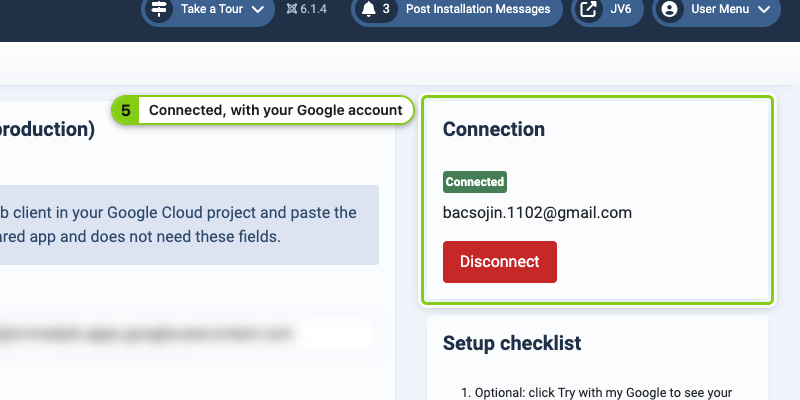
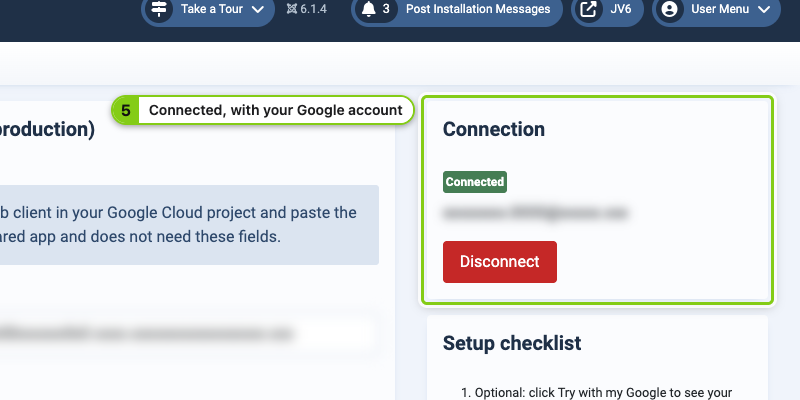
admin-guide-screenshots 1.2.0: hide personal data; refresh SiteKit demo
- shoot.py: email addresses are masked (x/0) and blurred on every shot;
  "redact" regexes (global or per shot) do the same for names, client IDs,
  account/property IDs; field values and selected options included
- SKILL.md: personal data always hidden (intake, shot rules, image check,
  no real data in guide text); stopping Chart.js animations before capture
- SiteKit demo retaken in the 1.1.0 style (lime boxes, notes, cropped) with
  the Google account email, client ID and GA4 property ID hidden

Changed region(s): [[0.5312, 0.51, 0.8125, 0.57]]

diff --git a/plugins/admin-guide-screenshots/skills/admin-guide-screenshots/scripts/shoot.py b/plugins/admin-guide-screenshots/skills/admin-guide-screenshots/scripts/shoot.py
@@ -12,9 +12,12 @@ SHOTS.json (see ../shots.example.json):
     crop        true (default): crop each image to its boxes plus padding; false: whole page;
                 or {"padding": 60, "min_width": 800, "min_height": 400}; also per shot
     hide        selectors hidden on every shot (debug bars, cookie banners)
-    blur        selectors blurred on every shot (emails, secrets)
+    blur        selectors blurred on every shot (fields holding secrets or IDs)
+    redact      regexes; matching text anywhere on the page (text, field values, selected
+                options) is masked (x/0) and blurred. Email addresses are always blurred unless
+                "redact_emails": false. Also per shot.
     shots       list of {name, url, actions?, highlights, hide?, blur?, full_page?, color?,
-                crop?, crop_include?}; a highlight is {selector, label?, note?, color?,
+                crop?, crop_include?, redact?}; a highlight is {selector, label?, note?, color?,
                 badge?, padding?}
 
 Credentials come from ADMIN_GUIDE_USER / ADMIN_GUIDE_PASS, read from the
@@ -157,6 +160,83 @@ CROP_JS = """
 """
 
 
+EMAIL_RE = r"[A-Za-z0-9._%+-]+@[A-Za-z0-9-]+(?:\.[A-Za-z0-9-]+)*\.[A-Za-z]{2,}"
+
+# Hides every match of the patterns: the characters are replaced first (letters -> x,
+# digits -> 0) so the image never holds the real value, then blurred. A form field or select
+# showing a match is masked and blurred whole. Returns how many places were hidden.
+REDACT_JS = """
+(patterns) => {
+	const res = patterns.map((p) => new RegExp(p, 'gi'));
+	const hit = (s) => res.some((r) => { r.lastIndex = 0; return r.test(s); });
+	const blur = 'blur(5px)';
+	const mask = (s) => s.replace(/[A-Za-z]/g, 'x').replace(/[0-9]/g, '0');
+	let count = 0;
+	const docs = [document];
+	for (const f of document.querySelectorAll('iframe')) {
+		try { if (f.contentDocument && f.contentDocument.body) docs.push(f.contentDocument); } catch (e) {}
+	}
+	for (const doc of docs) {
+		for (const el of doc.querySelectorAll('input, textarea, select')) {
+			if (el.dataset.agsRedact) continue;
+			const opt = el.tagName === 'SELECT' ? el.selectedOptions[0] : null;
+			const v = opt ? opt.text : (el.tagName === 'SELECT' || el.type === 'password' ? '' : el.value);
+			if (!v || !hit(v)) continue;
+			if (opt) opt.text = mask(v); else el.value = mask(v);
+			el.style.filter = blur;
+			el.dataset.agsRedact = '1';
+			count++;
+		}
+		const walker = doc.createTreeWalker(doc.body, NodeFilter.SHOW_TEXT, {acceptNode: (n) => {
+			const p = n.parentElement;
+			return p && !p.dataset.agsRedact && !/^(SCRIPT|STYLE|NOSCRIPT|OPTION|TEXTAREA)$/.test(p.tagName) && hit(n.nodeValue)
+				? NodeFilter.FILTER_ACCEPT : NodeFilter.FILTER_REJECT;
+		}});
+		const nodes = [];
+		while (walker.nextNode()) nodes.push(walker.currentNode);
+		for (const node of nodes) {
+			const text = node.nodeValue;
+			const ranges = [];
+			for (const r of res) {
+				r.lastIndex = 0;
+				let m;
+				while ((m = r.exec(text))) {
+					if (!m[0]) { r.lastIndex++; continue; }
+					ranges.push([m.index, m.index + m[0].length]);
+				}
+			}
+			ranges.sort((a, b) => a[0] - b[0]);
+			const merged = [];
+			for (const r of ranges) {
+				const last = merged[merged.length - 1];
+				if (last && r[0] <= last[1]) last[1] = Math.max(last[1], r[1]); else merged.push(r);
+			}
+			const frag = doc.createDocumentFragment();
+			let pos = 0;
+			for (const [a, b] of merged) {
+				frag.append(text.slice(pos, a));
+				const span = doc.createElement('span');
+				span.textContent = mask(text.slice(a, b));
+				span.dataset.agsRedact = '1';
+				Object.assign(span.style, {filter: blur, display: 'inline-block'});
+				frag.append(span);
+				pos = b;
+				count++;
+			}
+			frag.append(text.slice(pos));
+			node.replaceWith(frag);
+		}
+	}
+	return count;
+}
+"""
+
+
+def redact_patterns(spec: dict, shot: dict) -> list[str]:
+	emails = [EMAIL_RE] if spec.get("redact_emails", True) and shot.get("redact_emails", True) else []
+	return emails + spec.get("redact", []) + shot.get("redact", [])
+
+
 def crop_settings(spec: dict, shot: dict) -> dict | None:
 	"""Merged crop options for a shot, or None for an uncropped page/viewport."""
 	merged = dict(CROP)
@@ -275,6 +355,8 @@ def main() -> int:
 				spec.get("hide", []) + shot.get("hide", []),
 				spec.get("blur", []) + shot.get("blur", []),
 			)
+			patterns = redact_patterns(spec, shot)
+			redacted = page.evaluate(REDACT_JS, patterns) if patterns else 0
 			# Let charts finish resizing/animating after the injected styles changed the layout.
 			page.wait_for_timeout(int(shot.get("settle_ms", 300)))
 			color = shot.get("color", spec.get("color", BOX_COLOR))
@@ -286,6 +368,9 @@ def main() -> int:
 					run_action(page, action)
 			except Exception as e:
 				print(f"WARN {shot['name']}: post action failed: {str(e).splitlines()[0]}")
+			if patterns:
+				# Menus opened by post actions show new text.
+				redacted += page.evaluate(REDACT_JS, patterns)
 			file = out / f"{shot['name']}.png"
 			full_page = shot.get("full_page", True)
 			crop = crop_settings(spec, shot)
@@ -295,7 +380,7 @@ def main() -> int:
 				failures += 1
 				print(f"WARN {file}: highlight selector not found: {', '.join(missing)}")
 			else:
-				print(f"OK   {file}")
+				print(f"OK   {file}" + (f"  (blurred {redacted} personal item(s))" if redacted else ""))
 
 		browser.close()
 

diff --git a/plugins/admin-guide-screenshots/skills/admin-guide-screenshots/SKILL.md b/plugins/admin-guide-screenshots/skills/admin-guide-screenshots/SKILL.md
@@ -65,7 +65,9 @@ Round 2: how to capture
 5. **Site and login**: base URL (default from the project config, e.g. Docker port), and the role to
    capture as (Super User default; a limited role if the guide is for staff). Missing credentials → ask
    the user to put them in `.claude/admin-guide.env` themselves, or to give them so you write that file.
-6. **Privacy**: what to blur: account emails · account/property IDs · API keys/secrets · nothing.
+6. **Privacy**: personal data is always hidden (see "Personal data" in Phase 5): emails, names of real
+   people, client IDs/secrets, API keys, account/property IDs. Ask only what else to hide (customer or
+   order data, company names, domains) and whose names appear on the site (user and author names).
 7. **Domain shown**: the local URL as-is, or note that the reader's URLs will differ (screenshots
    always show the real local URL; never fake it).
 8. **Style**: box color (red `#e5262f` default, or the brand color), images cropped to the boxes with
@@ -146,6 +148,8 @@ if it needs the user, say exactly what to do and wait.
    - `"post_actions"`: actions run after the boxes are drawn, for menus that close when the page scrolls
      (box the button, then open its menu). `"full_page": false` for pop-up dialogs (viewport only).
    - `"settle_ms"` (default 300) waits before and after drawing boxes; use ~2500 on pages with charts so they finish animating.
+     If a chart is still caught mid-animation, stop it in `post_actions` (Chart.js:
+     `{"eval": "window.Chart && Object.values(Chart.instances).forEach(c => {c.options.animation = false; c.update('none')})"}`).
    - Selectors: the wrapper holding label + input + help (`.mb-3:has(#id)`, `.card:has(h2)`), found by
      reading the template, not guessed.
    - `actions`: `click`, `fill`, `select`, `hover`, `wait` (selector), `wait_ms`, `eval` (JS). Never submit
@@ -154,7 +158,15 @@ if it needs the user, say exactly what to do and wait.
      shot open the existing record and save it unchanged (same success message, no duplicates).
      Joomla success/error messages: `#system-message-container joomla-alert`. Joomla edit screens
      remember the last open tab: click the tab a shot needs instead of assuming the first one.
-   - `blur` (from the privacy answer) and `hide` (debug bars, cookie banners), global or per shot.
+   - **Personal data** never shows in a screenshot. Email addresses are hidden on every shot
+     automatically. Add `"redact": [regex, …]` at the top of `shots.json` for the rest: names of real
+     people (the site's user/author names, from the database), client IDs (`\\d{8,}-[a-z0-9]{24,}\\.apps\\.googleusercontent\\.com`),
+     account/property IDs (`properties/\\d+`), API keys, customer data. Matches anywhere on the page (text,
+     field values, selected options) are replaced with `x`/`0` and blurred, so the image never holds
+     the real value. For fields whose value is not text on the page, add their selector to `blur`.
+     Made-up example values typed by `actions` (`123456789012-abc…`, `GTM-ABC1234`) stay readable.
+     The run prints `blurred N personal item(s)` per shot.
+   - `hide` (debug bars, cookie banners), global or per shot.
 2. Run from the project root:
    ```bash
    python3 <skill>/scripts/shoot.py docs/admin-guide-screenshots/<guide>/shots.json \
@@ -162,8 +174,8 @@ if it needs the user, say exactly what to do and wait.
    ```
    `WARN … selector not found` = fix the selector, retake with `--only`.
 3. Look at every PNG (Read tool): box on the right element, badge and note readable and not covering
-   another box, crop showing enough to find the spot on the screen, blurred items blurred, no
-   debug output or PHP notices. Retake until right.
+   another box, crop showing enough to find the spot on the screen, no readable personal data
+   (emails, names, IDs, secrets) anywhere in the image, no debug output or PHP notices. Retake until right.
 4. Publish: Claude Doc → upload the PNGs as assets to the doc's URL, create a blob per asset, embed
    `![Step N: …](blob/<id>)` under its step (docs connector `topic.uploads`); store asset and blob ids in
    `guide.json.assets` so retakes replace the right image. Markdown → `![Step N: …](img/<name>.png)` with
@@ -208,6 +220,8 @@ python3 <skill>/scripts/build_html.py --zip       # + docs/admin-guide-screensho
 - Image right under its step; alt text "Step N: <what it shows>".
 - The step text and the box notes agree: a note is the short form of what the step says about that box.
 - Prerequisites (permission, state) once at the top of the section.
+- No personal data in the text either: use example values (`name@example.com`, `G-XXXXXXXXXX`,
+  `https://www.example.com/`) instead of the real account, IDs or names seen on the site.
 - Steps outside the site (Google Cloud Console, email) are named as such; their screenshots come from
   the user.
 - Tone and depth follow the audience answer; the language follows the language answer.

diff --git a/README.md b/README.md
@@ -8,6 +8,7 @@ A Claude Code plugin marketplace.
 
 Writes step-by-step admin guides for a web admin panel (Joomla by default). Every step has a screenshot
 cropped to the field or section the step describes, with a colored box, a numbered badge and a short note.
+Personal data (emails, names, client IDs, account IDs) is masked and blurred in every screenshot.
 
 How it works:
 - asks intake questions (feature, audience, guide type, output, language, login, privacy)
